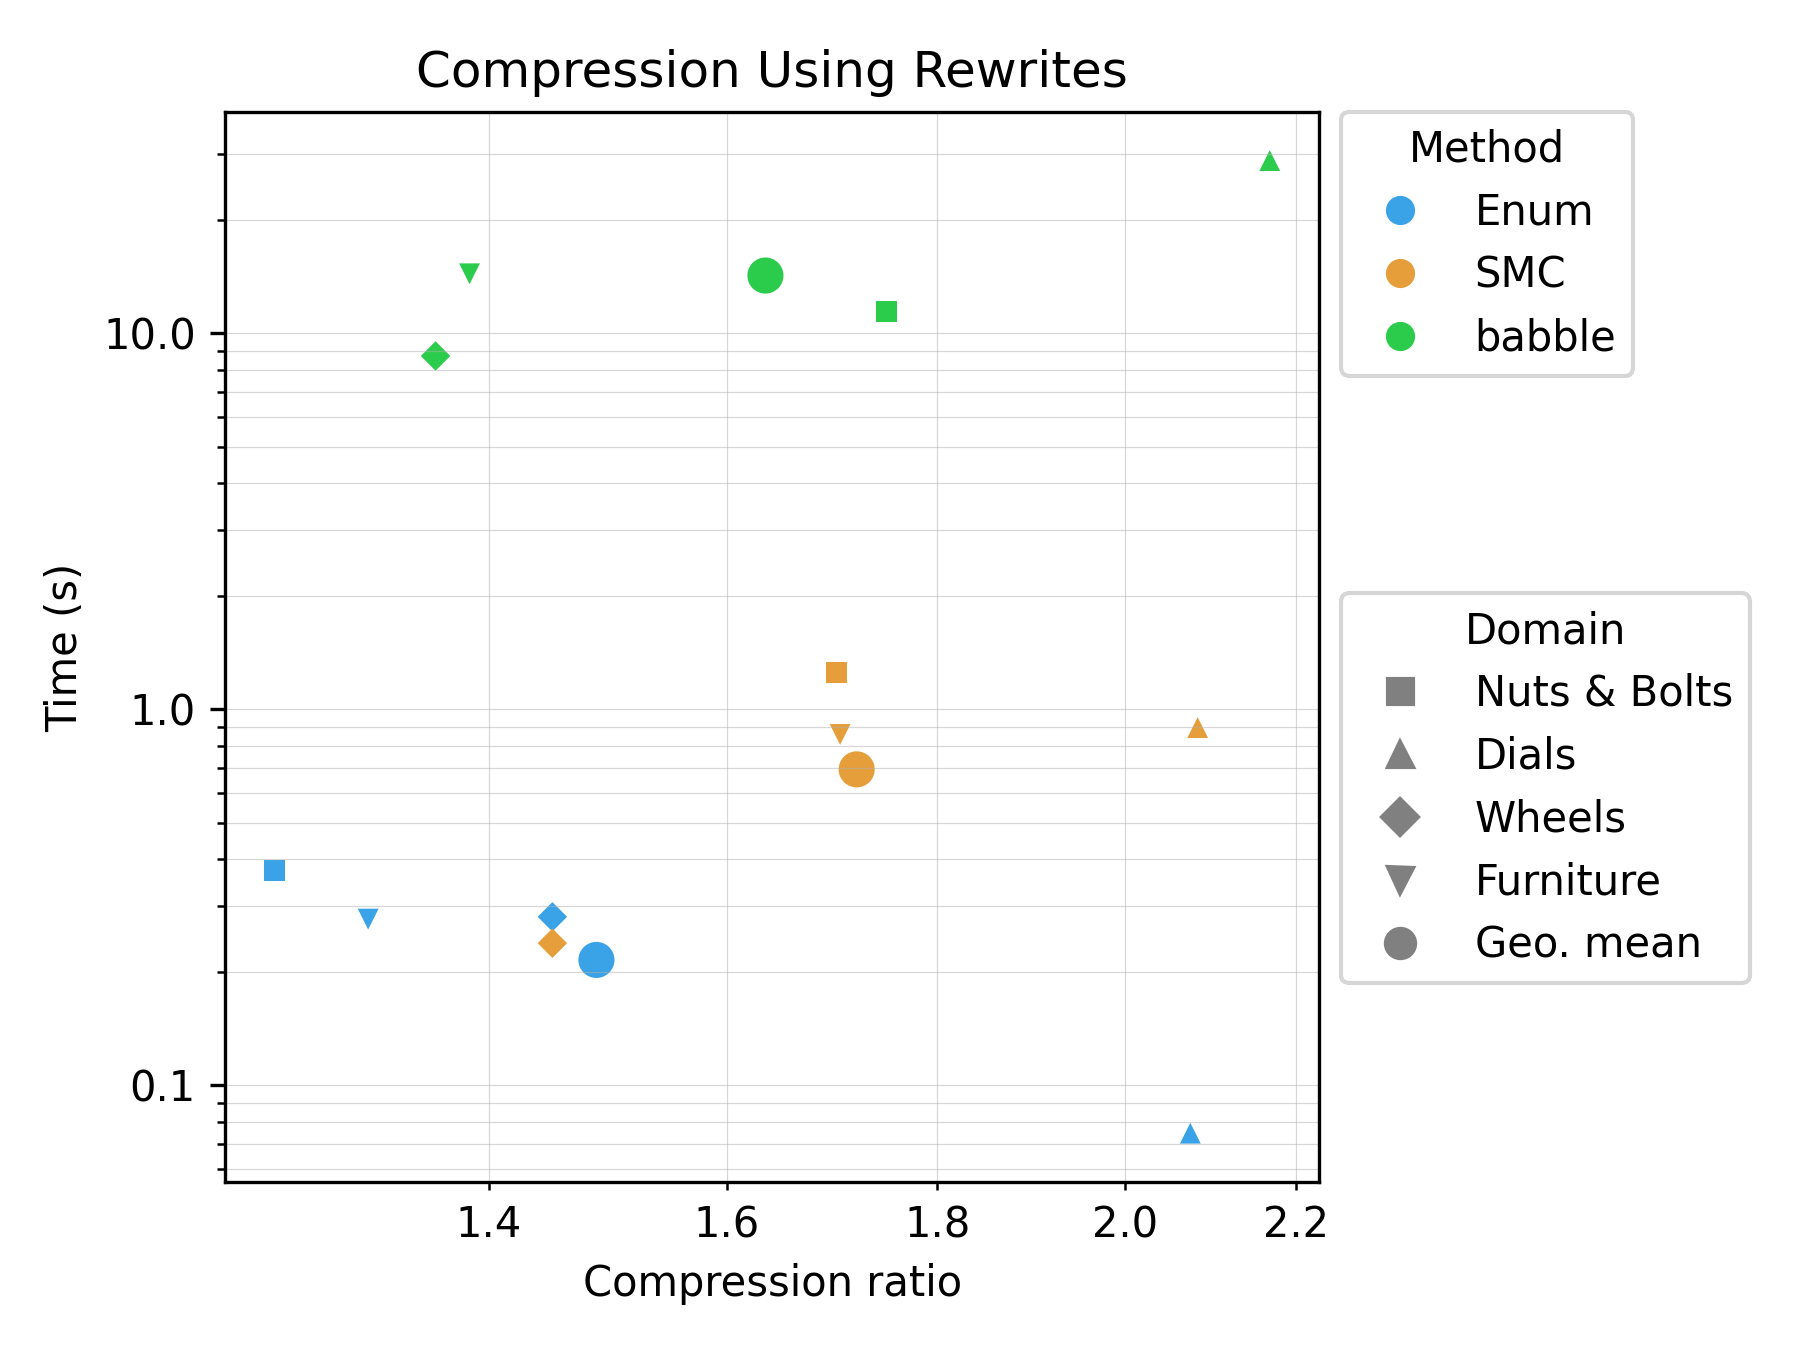
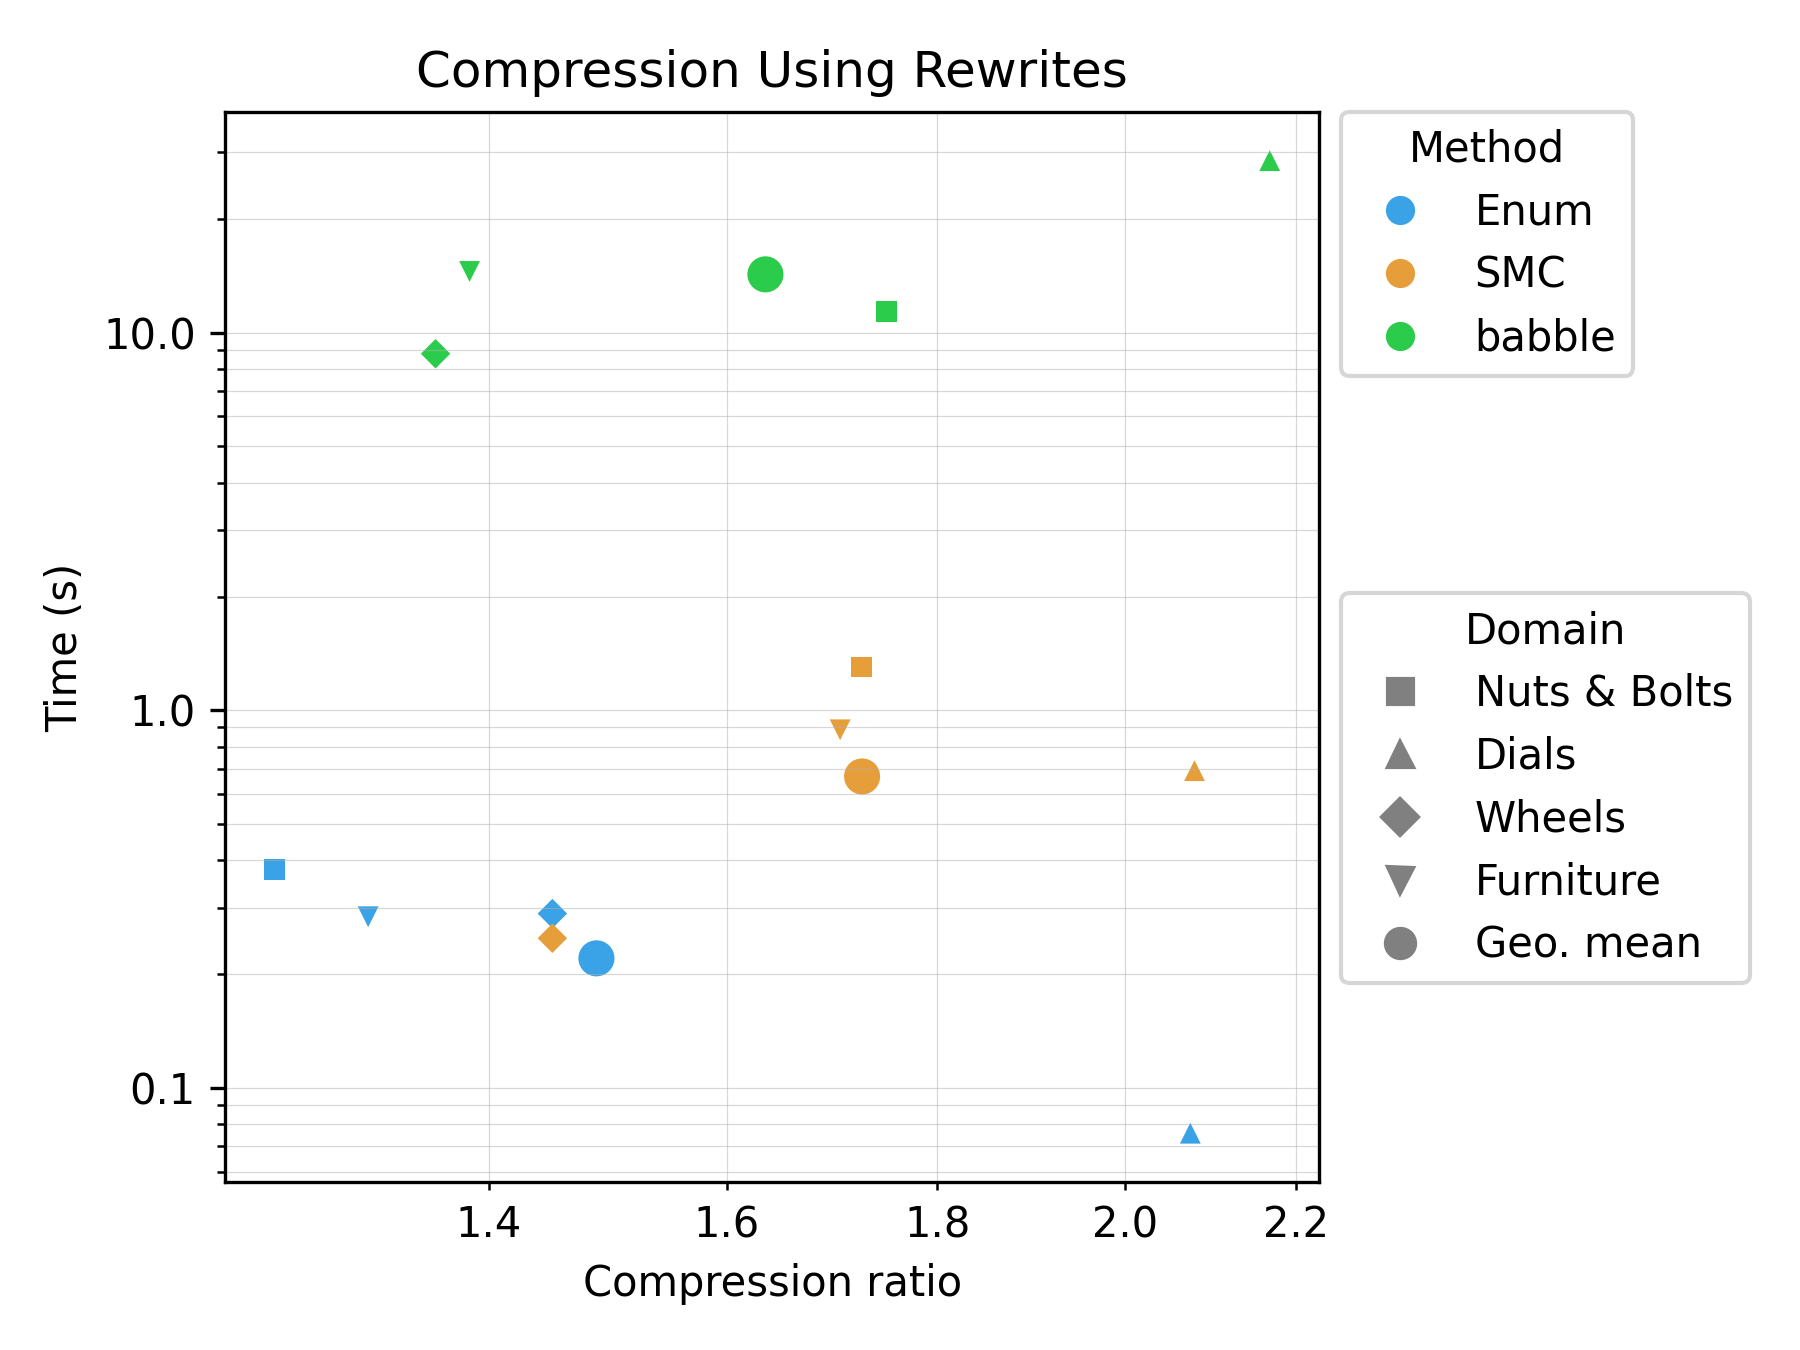
update tables to take into account variables changes (no domains with varables) (#90)

diff --git a/figures/table3.tex b/figures/table3.tex
@@ -1,4 +1,4 @@
-% source: /home/kavi/mit/egg-stitch/viz/results/table3/2026-05-05_18-55-23/table3.json
+% source: /home/kavi/mit/egg-stitch/viz/results/table3/2026-05-06_07-18-58/table3.json
 % Compression Using Rewrites, Stacked Abstractions: generated from results JSON
 \begin{tabular}{l r r rrrr rrrr}
 \toprule
@@ -6,11 +6,11 @@
 \cmidrule(lr){2-3} \cmidrule(lr){4-7} \cmidrule(lr){8-11}
 Domain & Original & E-graph min & Enum & SMC & babble & Stitch & Enum & SMC & babble & Stitch \\
 \midrule
-Nuts \& Bolts & 19009 & 19296 & 10.28 & \textbf{15.66} & 10.43 & N/A & \textbf{1.475} & 14.074 & 22.305 & N/A \\
-Dials & 35713 & 20846 & 5.27 & \textbf{9.66} & 7.09 & N/A & \textbf{0.984} & 5.584 & 43.678 & N/A \\
-Wheels & 35427 & 30308 & 1.91 & \textbf{8.75} & 6.44 & N/A & \textbf{1.433} & 7.988 & 42.325 & N/A \\
-Furniture & 42936 & 37268 & 3.26 & \textbf{6.82} & 4.56 & N/A & \textbf{3.118} & 13.287 & 60.885 & N/A \\
+Nuts \& Bolts & 19009 & 19296 & 10.28 & \textbf{16.08} & 10.43 & N/A & \textbf{1.537} & 13.749 & 22.249 & N/A \\
+Dials & 35713 & 20846 & 5.27 & \textbf{9.58} & 7.09 & N/A & \textbf{1.016} & 5.871 & 43.774 & N/A \\
+Wheels & 35427 & 30308 & 1.91 & \textbf{8.47} & 6.44 & N/A & \textbf{1.509} & 8.911 & 42.650 & N/A \\
+Furniture & 42936 & 37268 & 3.26 & \textbf{6.97} & 4.56 & N/A & \textbf{3.212} & 14.024 & 60.513 & N/A \\
 \midrule
-Geo. mean &  &  & 4.29 & \textbf{9.75} & 6.82 & N/A & \textbf{1.596} & 9.557 & 39.805 & N/A \\
+Geo. mean &  &  & 4.29 & \textbf{9.77} & 6.82 & N/A & \textbf{1.658} & 10.022 & 39.818 & N/A \\
 \bottomrule
 \end{tabular}

diff --git a/figures/table1.tex b/figures/table1.tex
@@ -1,4 +1,4 @@
-% source: /home/kavi/mit/egg-stitch/viz/results/table1/2026-05-05_18-39-09/table1.json
+% source: /home/kavi/mit/egg-stitch/viz/results/table1/2026-05-06_07-02-44/table1.json
 % Compression Using Rewrites: generated from results JSON
 \begin{tabular}{l r r rrrr rrrr}
 \toprule
@@ -6,11 +6,11 @@
 \cmidrule(lr){2-3} \cmidrule(lr){4-7} \cmidrule(lr){8-11}
 Domain & Original & E-graph min & Enum & SMC & babble & Stitch & Enum & SMC & babble & Stitch \\
 \midrule
-Nuts \& Bolts & 19009 & 19016 & 1.24 & 1.70 & \textbf{1.75} & N/A & \textbf{0.373} & 1.256 & 11.419 & N/A \\
-Dials & 35713 & 20618 & 2.07 & 2.08 & \textbf{2.17} & N/A & \textbf{0.075} & 0.895 & 28.810 & N/A \\
-Wheels & 35427 & 30264 & \textbf{1.45} & \textbf{1.45} & 1.36 & N/A & 0.281 & \textbf{0.239} & 8.709 & N/A \\
-Furniture & 42936 & 37079 & 1.31 & \textbf{1.70} & 1.39 & N/A & \textbf{0.277} & 0.858 & 14.408 & N/A \\
+Nuts \& Bolts & 19009 & 19016 & 1.24 & 1.73 & \textbf{1.75} & N/A & \textbf{0.378} & 1.301 & 11.364 & N/A \\
+Dials & 35713 & 20618 & 2.07 & 2.08 & \textbf{2.17} & N/A & \textbf{0.076} & 0.692 & 28.526 & N/A \\
+Wheels & 35427 & 30264 & \textbf{1.45} & \textbf{1.45} & 1.36 & N/A & 0.289 & \textbf{0.249} & 8.788 & N/A \\
+Furniture & 42936 & 37079 & 1.31 & \textbf{1.70} & 1.39 & N/A & \textbf{0.284} & 0.887 & 14.514 & N/A \\
 \midrule
-Geo. mean &  &  & 1.49 & \textbf{1.72} & 1.63 & N/A & \textbf{0.216} & 0.693 & 14.254 & N/A \\
+Geo. mean &  &  & 1.49 & \textbf{1.73} & 1.63 & N/A & \textbf{0.220} & 0.668 & 14.260 & N/A \\
 \bottomrule
 \end{tabular}

diff --git a/figures/table4.tex b/figures/table4.tex
@@ -1,4 +1,4 @@
-% source: /home/kavi/mit/egg-stitch/viz/results/table4/2026-05-05_19-31-40/table4.json
+% source: /home/kavi/mit/egg-stitch/viz/results/table4/2026-05-06_07-55-36/table4.json
 % Compression Without Rewrites, Stacked Abstractions: generated from results JSON
 \begin{tabular}{l r  rrrr rrrr}
 \toprule
@@ -6,11 +6,11 @@
 \cmidrule(lr){2-2} \cmidrule(lr){3-6} \cmidrule(lr){7-10}
 Domain & Original & Enum & SMC & babble & Stitch & Enum & SMC & babble & Stitch \\
 \midrule
-Nuts \& Bolts & 19009 & 1.61 & 15.38 & 9.11 & \textbf{16.99} & 1.508 & 2.601 & 10.307 & \textbf{0.096} \\
-Dials & 35713 & 4.49 & 6.29 & 5.25 & \textbf{8.87} & 1.249 & 7.657 & 42.003 & \textbf{0.448} \\
-Wheels & 35427 & 2.35 & \textbf{6.92} & 5.47 & 6.61 & 3.033 & 11.352 & 44.219 & \textbf{0.413} \\
-Furniture & 42936 & 3.70 & 6.44 & 4.26 & \textbf{7.00} & 3.355 & 13.438 & 70.866 & \textbf{0.581} \\
+Nuts \& Bolts & 19009 & 1.61 & 15.19 & 9.11 & \textbf{16.99} & 1.559 & 2.744 & 10.318 & \textbf{0.096} \\
+Dials & 35713 & 4.49 & 6.36 & 5.25 & \textbf{8.87} & 1.279 & 7.864 & 42.058 & \textbf{0.449} \\
+Wheels & 35427 & 2.35 & \textbf{6.75} & 5.47 & 6.61 & 3.159 & 12.158 & 44.328 & \textbf{0.413} \\
+Furniture & 42936 & 3.70 & 6.58 & 4.26 & \textbf{7.00} & 3.478 & 13.919 & 71.311 & \textbf{0.598} \\
 \midrule
-Geo. mean &  & 2.81 & 8.10 & 5.78 & \textbf{9.14} & 2.092 & 7.424 & 34.129 & \textbf{0.319} \\
+Geo. mean &  & 2.81 & 8.09 & 5.78 & \textbf{9.14} & 2.163 & 7.774 & 34.223 & \textbf{0.321} \\
 \bottomrule
 \end{tabular}

diff --git a/figures/table2.tex b/figures/table2.tex
@@ -1,4 +1,4 @@
-% source: /home/kavi/mit/egg-stitch/viz/results/table2/2026-05-05_18-50-26/table2.json
+% source: /home/kavi/mit/egg-stitch/viz/results/table2/2026-05-06_07-14-00/table2.json
 % Compression Without Rewrites: generated from results JSON
 \begin{tabular}{l r  rrrr rrrr}
 \toprule
@@ -6,11 +6,11 @@
 \cmidrule(lr){2-2} \cmidrule(lr){3-6} \cmidrule(lr){7-10}
 Domain & Original & Enum & SMC & babble & Stitch & Enum & SMC & babble & Stitch \\
 \midrule
-Nuts \& Bolts & 19009 & 1.29 & 1.63 & 1.67 & \textbf{1.78} & 0.068 & 0.284 & 2.022 & \textbf{0.044} \\
-Dials & 35713 & 1.22 & 1.23 & 1.26 & \textbf{1.27} & 0.110 & 0.548 & 7.628 & \textbf{0.107} \\
-Wheels & 35427 & 1.22 & 1.24 & 1.14 & \textbf{1.24} & 0.292 & 0.230 & 4.614 & \textbf{0.109} \\
-Furniture & 42936 & 1.04 & 1.38 & 1.22 & \textbf{1.38} & 0.342 & 1.092 & 11.405 & \textbf{0.149} \\
+Nuts \& Bolts & 19009 & 1.29 & 1.65 & 1.67 & \textbf{1.78} & 0.069 & 0.302 & 2.014 & \textbf{0.043} \\
+Dials & 35713 & 1.22 & 1.23 & 1.26 & \textbf{1.27} & 0.113 & 0.497 & 7.699 & \textbf{0.107} \\
+Wheels & 35427 & 1.22 & 1.24 & 1.14 & \textbf{1.24} & 0.295 & 0.282 & 4.589 & \textbf{0.108} \\
+Furniture & 42936 & 1.04 & 1.38 & 1.22 & \textbf{1.38} & 0.351 & 1.121 & 11.426 & \textbf{0.149} \\
 \midrule
-Geo. mean &  & 1.19 & 1.36 & 1.31 & \textbf{1.40} & 0.165 & 0.445 & 5.338 & \textbf{0.093} \\
+Geo. mean &  & 1.19 & 1.37 & 1.31 & \textbf{1.40} & 0.169 & 0.467 & 5.340 & \textbf{0.093} \\
 \bottomrule
 \end{tabular}
